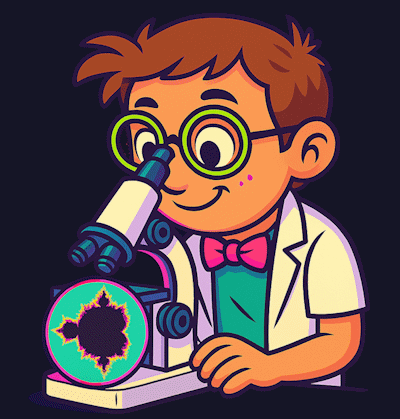
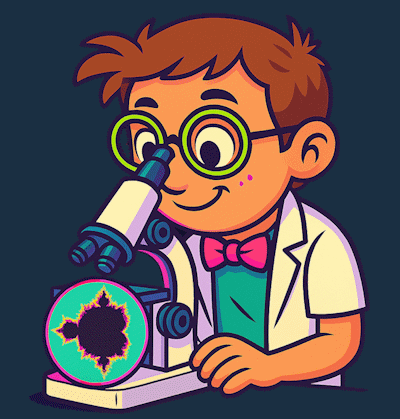
Remove negative margins approach, use Graphiti color scheme

diff --git a/styles.css b/styles.css
@@ -9,13 +9,13 @@
 
 html,body{height:100%;height:var(--actual-vh, 100vh);overflow:hidden;overscroll-behavior:none}
 #app{display:flex;flex-direction:column;width:100vw;height:var(--actual-vh, 100vh)}
-body{background:#151526;color:#000;overflow:hidden}
+body{background:#1A2F42;color:#000;overflow:hidden}
 
 /* Title Screen */
 #title-screen{
   position:fixed;
   top:0;left:0;right:0;bottom:0;
-  background:#151526;
+  background:#1A2F42;
   display:flex;
   align-items:center;
   justify-content:center;
@@ -180,7 +180,7 @@ header button{pointer-events:auto}
 .setting-group input[type=range]:disabled{opacity:0.5;cursor:not-allowed}
 .reset-btn{width:100%;background:#667eea;color:#fff;border:none;padding:8px;border-radius:4px;cursor:pointer;font-size:0.9rem;transition:background 0.2s}
 .reset-btn:hover{background:#764ba2}
-main{position:relative;flex:1;display:flex;margin-top:calc(-1 * env(safe-area-inset-top));margin-left:calc(-1 * env(safe-area-inset-left));margin-right:calc(-1 * env(safe-area-inset-right));margin-bottom:calc(-1 * env(safe-area-inset-bottom))}
+main{position:relative;flex:1;display:flex}
 #canvas-wrap{flex:1;position:relative}
 .canvas-layer{position:absolute;width:100%;height:100%;display:block;cursor:crosshair}
 #canvas-wrap canvas{width:100%;height:100%}

diff --git a/sw.js b/sw.js
@@ -1,4 +1,4 @@
-const CACHE_NAME = 'mandelscope-v5';
+const CACHE_NAME = 'mandelscope-v6';
 const urlsToCache = [
   './',
   './index.html',
